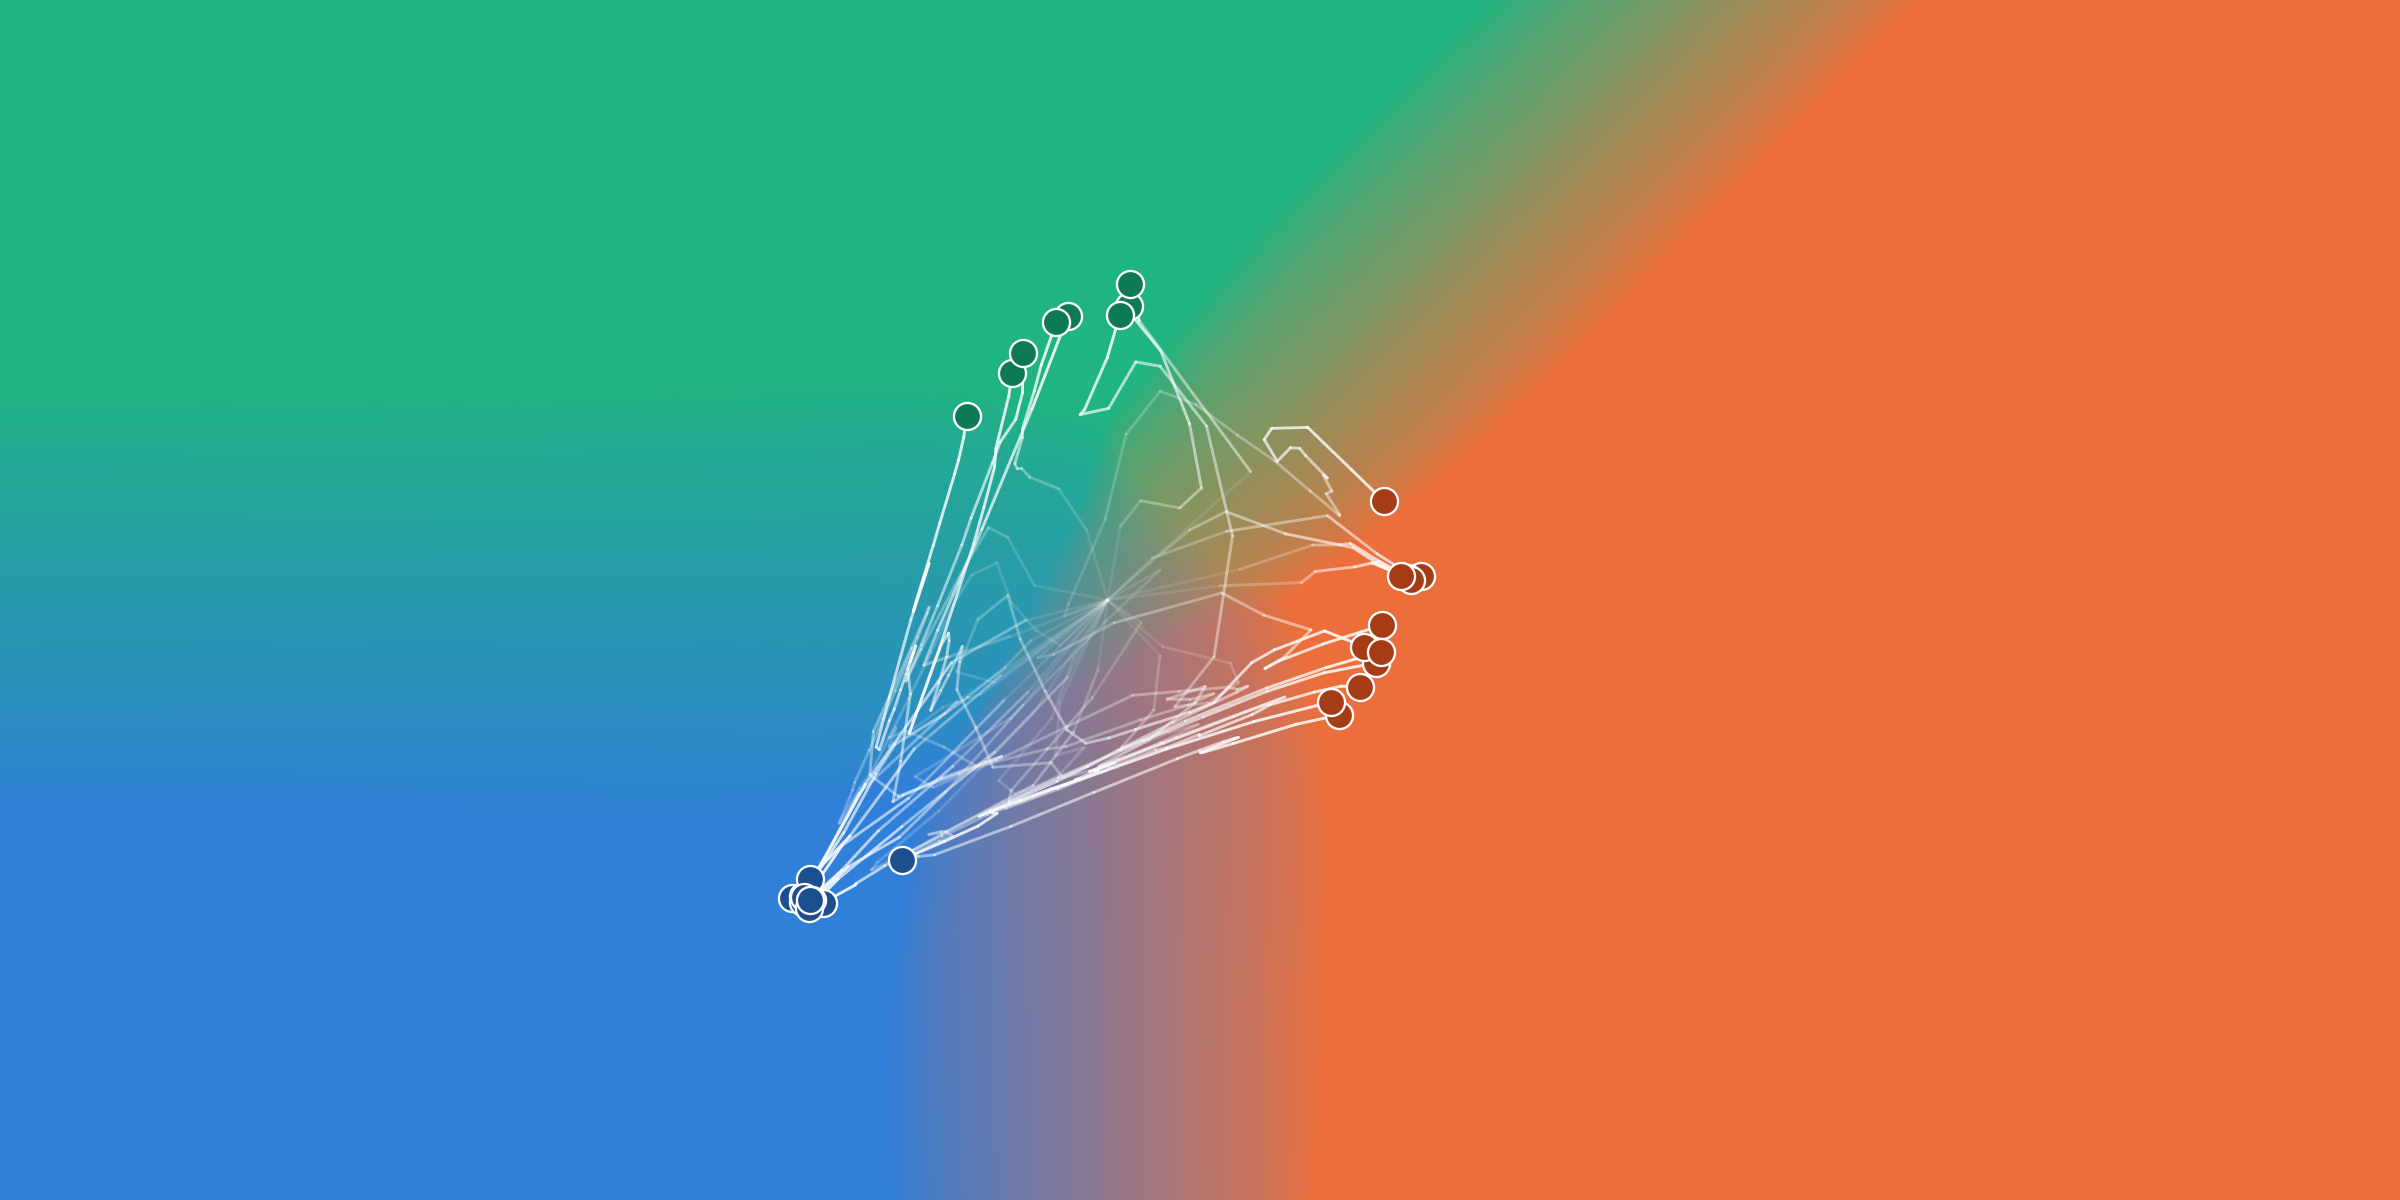
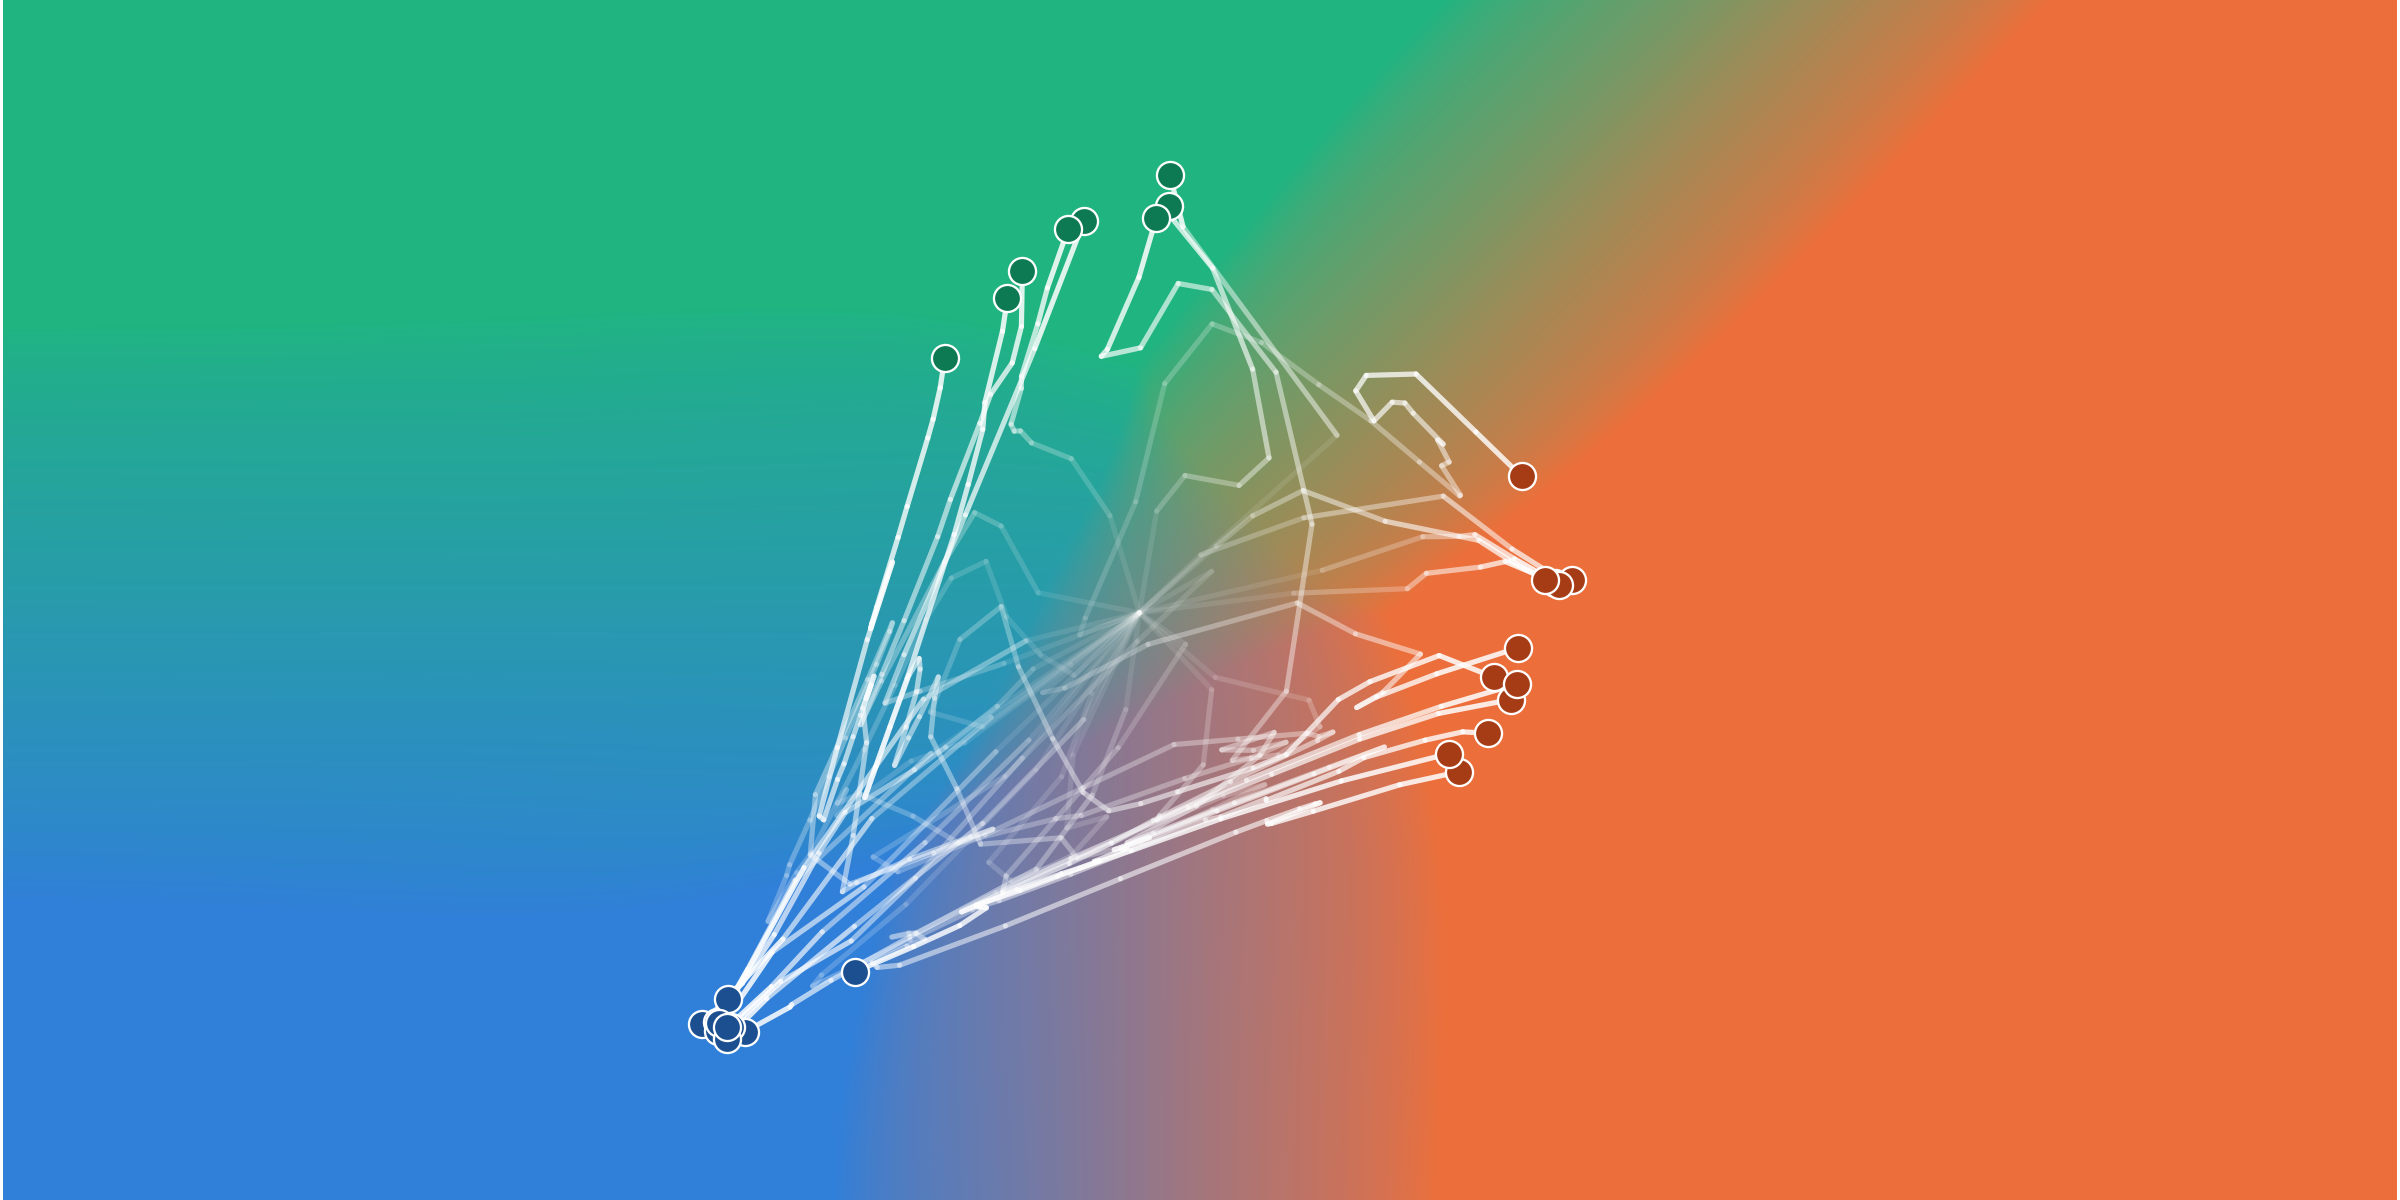
bumped hero

Changed region(s): [[0.2812, 0.0, 0.8438, 1.0], [0.3438, 0.9867, 0.375, 1.0]]

diff --git a/figures.py b/figures.py
@@ -1,0 +1,215 @@
+"""
+README visuals: the three-arm policy atlas (allocation as barycentric color
+over the mean plane, information growing left to right) and the two-arm arena
+result (regret and information spend relative to Thompson sampling).
+Palette: dataviz default categorical slots 1-3 (all-pairs validated).
+"""
+
+from __future__ import annotations
+
+import pickle
+
+import matplotlib.pyplot as plt
+import numpy as np
+import torch
+
+
+from matplotlib.patches import Patch
+
+from pinn.problems.three_arm import DimensionlessValueFunction, ValueFunction
+
+BLUE, ORANGE, AQUA, YELLOW = "#2a78d6", "#eb6834", "#1baf7a", "#eda100"
+INK, MUTED = "#1a1f26", "#5b6472"
+
+ANCHORS = np.array(
+    [
+        [42 / 255, 120 / 255, 214 / 255],  # arm a (control) - blue
+        [235 / 255, 104 / 255, 52 / 255],  # arm b - orange
+        [27 / 255, 175 / 255, 122 / 255],  # arm c - aqua
+    ]
+)
+
+
+def atlas() -> None:
+    value = ValueFunction(
+        DimensionlessValueFunction.load("data/value_3a_64:64:64.pt"), rho=1.0, sigma=1.0
+    )
+    taus = [0.03, 0.3, 1.0, 3.0]
+    n = 220
+
+    fig, axes = plt.subplots(1, len(taus), figsize=(16, 4.6))
+
+    for ax, tau in zip(axes, taus):
+        deviation = (0.75 * tau) ** -0.5
+        axis = torch.linspace(-3.0 * deviation, 3.0 * deviation, n)
+        m_b, m_c = torch.meshgrid(axis, axis, indexing="xy")
+        alpha = value.policy(
+            m_b.flatten(),
+            m_c.flatten(),
+            torch.full((n * n,), tau),
+            torch.full((n * n,), -tau / 2.0),
+            torch.full((n * n,), tau),
+        )
+        image = (alpha.numpy() @ ANCHORS).reshape(n, n, 3)
+        ax.imshow(
+            image, origin="lower", extent=[-3, 3, -3, 3], interpolation="bilinear"
+        )
+        ax.set_title(f"information = {tau:g}", fontsize=12, color=INK)
+        ax.set_xlabel("mean of B - control  (posterior sd)", fontsize=9, color=MUTED)
+        ax.set_xticks([-3, 0, 3])
+        ax.set_yticks([-3, 0, 3])
+        ax.tick_params(colors=MUTED, labelsize=8)
+
+        for spine in ax.spines.values():
+            spine.set_visible(False)
+
+    axes[0].set_ylabel("mean of C - control  (posterior sd)", fontsize=9, color=MUTED)
+    fig.suptitle(
+        "The learned allocation policy: color = traffic split over (control, B, C)",
+        fontsize=15,
+        color=INK,
+        y=1.02,
+    )
+    fig.legend(
+        handles=[
+            Patch(color=BLUE, label="all-in on control"),
+            Patch(color=ORANGE, label="all-in on B"),
+            Patch(color=AQUA, label="all-in on C"),
+            Patch(color="#5e6b6e", label="blends = exploration"),
+        ],
+        loc="lower center",
+        ncol=4,
+        frameon=False,
+        bbox_to_anchor=(0.5, -0.06),
+        fontsize=10,
+    )
+    fig.tight_layout()
+    fig.savefig(
+        "docs/policy_atlas.png", dpi=150, bbox_inches="tight", facecolor="white"
+    )
+    plt.close(fig)
+    print("saved docs/policy_atlas.png")
+
+
+def arena(
+    study_path: str = "data/frontier4k.pkl",
+    out_path: str = "docs/arena_two_arm.png",
+    suptitle: str = "A/B test policy arena",
+    entities: list[tuple[str, str, str]] | None = None,
+    caption: str | None = None,
+    xlim: float = 2.6,
+) -> None:
+    # Color follows the entity across charts: PINN blue, Thompson orange,
+    # explore-then-commit aqua, the significance-testing family yellow.
+    entities = entities or [
+        ("Pinn", "PINN (this repo)", BLUE),
+        ("ProbabilityMatching", "Thompson sampling", ORANGE),
+        ("ExploreThenCommit", "explore-then-commit", AQUA),
+        ("ZTest", "z-test at 5%", YELLOW),
+    ]
+    caption = caption or (
+        "Each strategy plays the same 4,000 random A/B tests. Regret: profit left on the table vs an oracle that picks the\n"
+        "winner from day one (lower is better). Evidence: total measurement bought - an even split measures at full power,\n"
+        "sending everyone to one arm measures nothing, and the sum counts perfect-split epochs' worth of data collected.\n"
+        "The PINN loses 20% less than Thompson sampling on less than half the evidence - it knows when measuring stops paying."
+    )
+    study = pickle.loads(open(study_path, "rb").read())
+    by_policy: dict[str, list] = {}
+
+    for run in study.runs:
+        by_policy.setdefault(run.policy, []).append(run)
+
+    order = [name for name, _, _ in entities]
+    labels = [label for _, label, _ in entities]
+    colors = [color for _, _, color in entities]
+
+    def stats(name: str, field) -> tuple[float, float]:
+        values = np.array([field(r) for r in by_policy[name]])
+
+        return values.mean(), 1.96 * values.std(ddof=1) / len(values) ** 0.5
+
+    ts_regret, _ = stats("ProbabilityMatching", lambda r: r.regret)
+    ts_info, _ = stats(
+        "ProbabilityMatching", lambda r: getattr(r, "precision_time", 0.0)
+    )
+
+    fig, (ax_regret, ax_info) = plt.subplots(1, 2, figsize=(12, 3.6))
+
+    for ax, field, base, title in [
+        (
+            ax_regret,
+            lambda r: r.regret,
+            ts_regret,
+            "discounted regret  (Thompson = 1.00, lower is better)",
+        ),
+        (
+            ax_info,
+            lambda r: getattr(r, "precision_time", 0.0),
+            ts_info,
+            "evidence bought, in perfect-split epochs  (Thompson = 1.00)",
+        ),
+    ]:
+        means, cis = zip(*(stats(name, field) for name in order))
+        y = np.arange(len(order))[::-1]
+        ax.barh(
+            y,
+            [m / base for m in means],
+            xerr=[c / base for c in cis],
+            color=colors,
+            height=0.62,
+            error_kw={"ecolor": INK, "capsize": 3, "elinewidth": 1},
+        )
+
+        for position, mean, ci in zip(y, means, cis):
+            ax.text(
+                (mean + ci) / base + 0.07,
+                position,
+                f"{mean / base:.2f}",
+                va="center",
+                fontsize=10,
+                color=INK,
+            )
+        ax.set_yticks(y)
+        ax.set_yticklabels(labels, fontsize=10, color=INK)
+        ax.set_title(title, fontsize=11, color=INK, loc="left")
+        ax.set_xlim(0, xlim)
+        ax.tick_params(colors=MUTED, labelsize=8)
+        ax.spines[["top", "right", "left"]].set_visible(False)
+        ax.xaxis.grid(True, alpha=0.25, linewidth=0.5)
+        ax.set_axisbelow(True)
+
+    fig.suptitle(suptitle, fontsize=16, color=INK, x=0.02, ha="left")
+    fig.text(
+        0.02, -0.01, caption, fontsize=8, color="#8a93a1", va="top", linespacing=1.45
+    )
+    fig.tight_layout(rect=[0, 0.02, 1, 0.94])
+    fig.savefig(out_path, dpi=150, bbox_inches="tight", facecolor="white")
+    plt.close(fig)
+    print(f"saved {out_path}")
+
+
+def arena_three() -> None:
+    arena(
+        study_path="data/frontier3a.pkl",
+        out_path="docs/arena_three_arm.png",
+        suptitle="A/B/C test policy arena",
+        entities=[
+            ("Pinn", "PINN (this repo)", BLUE),
+            ("ProbabilityMatching", "Thompson sampling", ORANGE),
+            ("Elimination", "elimination at 5%\n(generalized z-test)", YELLOW),
+            ("ExploreThenCommit", "explore-then-commit", AQUA),
+        ],
+        caption=(
+            "Each strategy plays the same 4,000 random A/B/C tests (two challengers vs a control). Regret: profit left on\n"
+            "the table vs an oracle that picks the winner from day one (lower is better). Evidence: total measurement\n"
+            "bought, in perfect-thirds epochs. The PINN loses 22% less than Thompson sampling on 38% of the evidence -\n"
+            "the margin over every other policy grows with the number of arms."
+        ),
+        xlim=2.8,
+    )
+
+
+if __name__ == "__main__":
+    atlas()
+    arena()
+    arena_three()

diff --git a/hero.py b/hero.py
@@ -1,0 +1,169 @@
+"""
+Hero image: the three-arm policy field in sd-normalized coordinates, with
+real simulated experiments wandering over it until the free boundaries stop
+them. Background field at tau = 1 (the chart where the policy is
+quasi-stationary in sd units); trajectories simulated with the true
+posterior dynamics under the champion's policy.
+"""
+
+from __future__ import annotations
+
+
+import matplotlib.pyplot as plt
+import numpy as np
+import torch
+
+from matplotlib.collections import LineCollection
+
+
+from pinn.problems.three_arm import DimensionlessValueFunction, ValueFunction
+
+ANCHORS = np.array(
+    [
+        [42 / 255, 120 / 255, 214 / 255],  # control - blue
+        [235 / 255, 104 / 255, 52 / 255],  # B - orange
+        [27 / 255, 175 / 255, 122 / 255],  # C - aqua
+    ]
+)
+DOT_COLORS = ["#1b4f8f", "#a63c16", "#0e7a53"]
+
+PATHS = 30
+DT = 5e-3
+HORIZON = 12.0
+TAU0 = 0.3
+SPAN = 2.9
+
+
+def field(value: ValueFunction, n: int = 480) -> np.ndarray:
+    tau = 1.0
+    deviation = (0.75 * tau) ** -0.5
+    axis = torch.linspace(-SPAN * deviation, SPAN * deviation, n)
+    m_b, m_c = torch.meshgrid(axis, axis, indexing="xy")
+    alpha = value.policy(
+        m_b.flatten(),
+        m_c.flatten(),
+        torch.full((n * n,), tau),
+        torch.full((n * n,), -tau / 2.0),
+        torch.full((n * n,), tau),
+    )
+
+    return (alpha.numpy() @ ANCHORS).reshape(n, n, 3)
+
+
+def simulate(value: ValueFunction) -> tuple[list, list]:
+    torch.manual_seed(11)
+    m_b = torch.zeros(PATHS)
+    m_c = torch.zeros(PATHS)
+    tau_bb = torch.full((PATHS,), TAU0)
+    tau_bc = torch.full((PATHS,), -TAU0 / 2.0)
+    tau_cc = torch.full((PATHS,), TAU0)
+    active = torch.ones(PATHS, dtype=torch.bool)
+    frozen_arm = torch.full((PATHS,), -1, dtype=torch.long)
+
+    trails: list[list[tuple[float, float]]] = [[] for _ in range(PATHS)]
+    t = 0.0
+
+    while t < HORIZON and bool(active.any()):
+        p_b = tau_bb - tau_bc**2 / tau_cc
+        p_c = tau_cc - tau_bc**2 / tau_bb
+
+        for i in range(PATHS):
+            if bool(active[i]):
+                trails[i].append(
+                    (float(m_b[i] * p_b[i] ** 0.5), float(m_c[i] * p_c[i] ** 0.5))
+                )
+
+        alpha = value.policy(m_b, m_c, tau_bb, tau_bc, tau_cc)
+        top, arm = alpha.max(dim=-1)
+        committed = active & (top >= 1.0)
+        frozen_arm[committed] = arm[committed]
+        active = active & ~committed
+
+        a_a, a_b, a_c = alpha[:, 0], alpha[:, 1], alpha[:, 2]
+        g11 = a_a * a_b + a_b * a_c
+        g12 = -a_b * a_c
+        g22 = a_a * a_c + a_b * a_c
+
+        det = tau_bb * tau_cc - tau_bc**2
+        i11, i12, i22 = tau_cc / det, -tau_bc / det, tau_bb / det
+        h11, h21 = g11 * i11 + g12 * i12, g12 * i11 + g22 * i12
+        h12, h22 = g11 * i12 + g12 * i22, g12 * i12 + g22 * i22
+        a11 = (i11 * h11 + i12 * h21).clamp_min(0.0)
+        a12 = i11 * h12 + i12 * h22
+        a22 = i12 * h12 + i22 * h22
+
+        l11 = a11.sqrt()
+        l21 = a12 / l11.clamp_min(1e-12)
+        l22 = (a22 - l21**2).clamp_min(0.0).sqrt()
+
+        noise_1, noise_2 = torch.randn(PATHS), torch.randn(PATHS)
+        root = DT**0.5
+        m_b = m_b + active * l11 * noise_1 * root
+        m_c = m_c + active * (l21 * noise_1 + l22 * noise_2) * root
+        tau_bb = tau_bb + active * g11 * DT
+        tau_bc = tau_bc + active * g12 * DT
+        tau_cc = tau_cc + active * g22 * DT
+        t += DT
+
+    return trails, frozen_arm.tolist()
+
+
+def main() -> None:
+    value = ValueFunction(
+        DimensionlessValueFunction.load("data/value_3a_64:64:64.pt"), rho=1.0, sigma=1.0
+    )
+    image = field(value)
+    trails, arms = simulate(value)
+
+    fig, ax = plt.subplots(figsize=(16, 8))
+    ax.imshow(
+        np.clip(image, 0, 1) ** 0.92,
+        origin="lower",
+        extent=[-SPAN, SPAN, -SPAN, SPAN],
+        interpolation="bilinear",
+    )
+
+    for trail, arm in zip(trails, arms):
+        if len(trail) < 3:
+            continue
+
+        # Decimate and lightly smooth: the raw SDE steps are visual noise.
+        points = np.array(trail)[::10]
+        points = np.vstack([points, trail[-1]])
+
+        if len(points) > 4:
+            kernel = np.ones(3) / 3.0
+            for column in range(2):
+                interior = np.convolve(points[:, column], kernel, "same")
+                points[1:-1, column] = interior[1:-1]
+
+        segments = np.stack([points[:-1], points[1:]], axis=1)
+        colors = np.ones((len(segments), 4))
+        colors[:, 3] = np.linspace(0.10, 0.85, len(segments))
+        ax.add_collection(
+            LineCollection(segments, colors=colors, linewidths=2.5, capstyle="round")
+        )
+
+        if arm >= 0:
+            ax.plot(
+                points[-1, 0],
+                points[-1, 1],
+                marker="o",
+                markersize=13,
+                color=DOT_COLORS[arm],
+                markeredgecolor="white",
+                markeredgewidth=1.1,
+                zorder=5,
+            )
+
+    ax.set_xlim(-1.78, 1.97)
+    ax.set_ylim(-0.92, 0.96)
+    ax.axis("off")
+    fig.subplots_adjust(left=0, right=1, top=1, bottom=0)
+    fig.savefig("docs/hero.png", dpi=150, facecolor="white")
+    plt.close(fig)
+    print("saved docs/hero.png")
+
+
+if __name__ == "__main__":
+    main()
